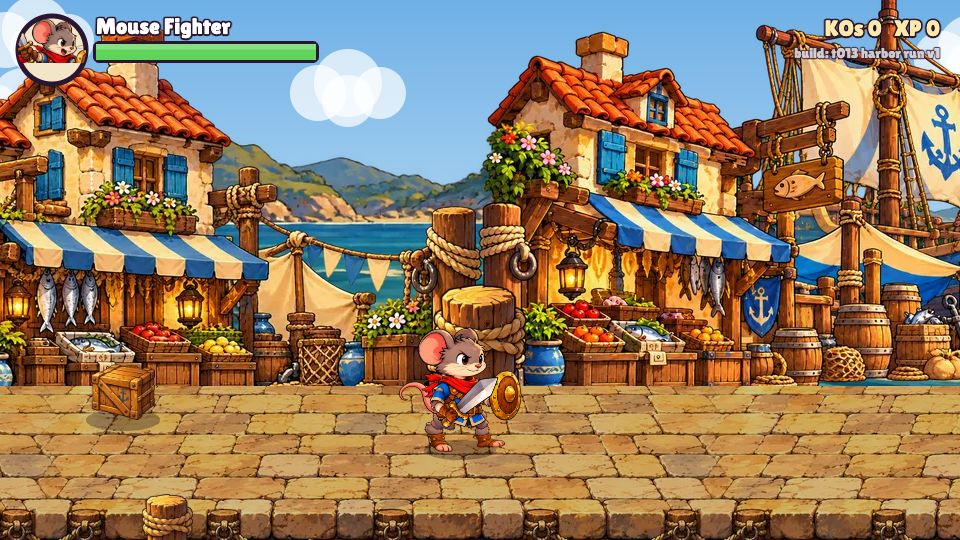
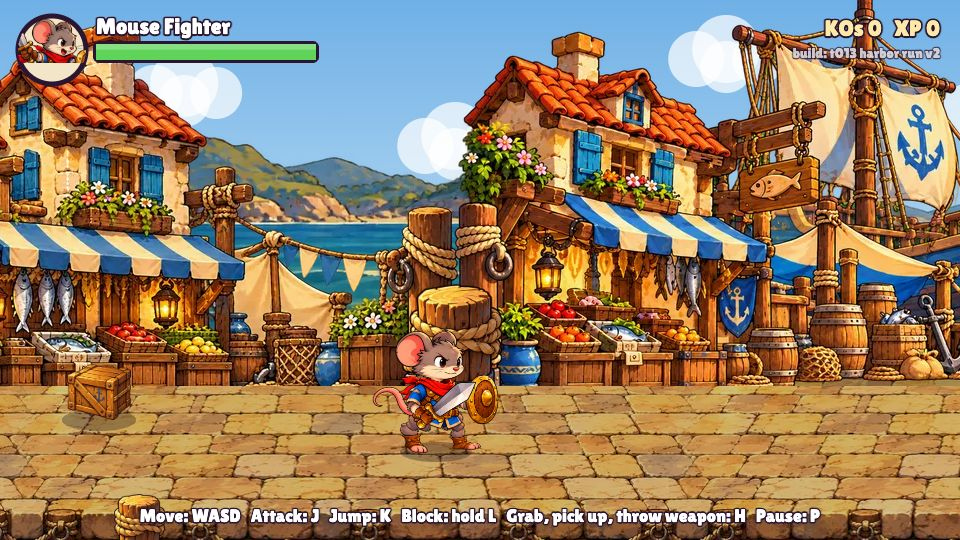
T013 round 3: stone backfill behind the back art (no sea strip along the lane), screens retaken

diff --git a/src/render/layers.js b/src/render/layers.js
@@ -1,4 +1,5 @@
-// Layered scrolling stage (T013): far (parallax), back segments end to end, floor tile (shaded), decor pieces.
+// Layered scrolling stage (T013): far (parallax), stone backfill under the back art, back segments end to end,
+// floor tile (shaded), decor pieces.
 // drawLayersBack before the fighters, drawLayersFront after them. camX = the camera's x (sim/camera.js), rounded.
 // segmentsOf / joinsOf are pure (data test, debug overlay).
 
@@ -25,12 +26,19 @@ export function drawLayersBack(ctx, stage, camX, assets, view) {
   const L = stage.layers;
   const far = assets.get(L.far.src);
   ctx.drawImage(far, Math.round(L.far.x - camX * L.far.parallax), L.far.y);
+  const fl = assets.get(L.floor.src), tw = fl.width, F = L.floor;
+  if (F.backfill) {   // stone behind the back art's uneven feet, so the far sea never shows between barrels and the lane
+    const y0 = L.back.base - F.backfill;
+    ctx.save(); ctx.beginPath(); ctx.rect(0, y0, view.w, F.backfill); ctx.clip();
+    for (let x = -(camX % tw); x < view.w; x += tw) ctx.drawImage(fl, x, y0, tw + 1, fl.height);
+    ctx.fillStyle = `rgba(0,0,0,${F.backfillShade})`; ctx.fillRect(0, y0, view.w, F.backfill);
+    ctx.restore();
+  }
   for (const s of segmentsOf(stage)) {
     if (s.x - camX > view.w || s.x + s.w - camX < 0) continue;
     const img = assets.get(s.src), h = img.height * s.w / img.width;
     ctx.drawImage(img, s.x - camX, L.back.base - h, s.w, h);
   }
-  const fl = assets.get(L.floor.src), tw = fl.width;
   for (let x = -(camX % tw); x < view.w; x += tw) ctx.drawImage(fl, x, L.floor.y, tw + 1, fl.height);   // 1 px overlap: no hairline
   if (L.floor.shade) { ctx.fillStyle = `rgba(0,0,0,${L.floor.shade})`; ctx.fillRect(0, L.floor.y, view.w, fl.height); }
   for (const d of L.decor) if (d.layer === 'back') drawPiece(ctx, L, d, d.x - camX, assets, 1);

diff --git a/src/data/lab-schema.js b/src/data/lab-schema.js
@@ -190,7 +190,7 @@ export const LAB_SCHEMA = [
   {
     title: 'Stage (Harbor Run, scrolling)', file: 'src/data/stages/harbor-run.js',
     fields: [
-      ['layers.floor.shade', 0, 0.6, 0.01], ['layers.far.parallax', 0, 1, 0.01], ['layers.frontParallax', 1, 1.5, 0.01],
+      ['layers.floor.shade', 0, 0.6, 0.01], ['layers.floor.backfill', 0, 120, 1], ['layers.floor.backfillShade', 0, 1, 0.01], ['layers.far.parallax', 0, 1, 0.01], ['layers.frontParallax', 1, 1.5, 0.01],
       ['layers.fade', 0, 1, 0.05], ['camera.follow', 200, 700, 5], ['camera.catchUp', 1, 20, 0.5], ['camera.edge', 0, 120, 1],
       ['floor.top', 300, 540, 1], ['floor.bottom', 300, 540, 1],
       { path: 'enemyCap', min: 1, max: 8, step: 1, file: 'src/data/rules.js' }, { path: 'zoneStagger', min: 1, max: 120, step: 1, file: 'src/data/rules.js' },

diff --git a/src/data/stages/harbor-run.js b/src/data/stages/harbor-run.js
@@ -24,7 +24,9 @@ export default {
       sequence: ['back-1', 'back-2', 'back-3', 'back-1'],
     },
     // floor: one tile (A007 floor, seam cross-faded by tools/tile_fade.py) repeated; top at `y`; shade = black overlay so fighters read
-    floor: { src: A + 'floor.webp', y: 386, shade: 0.18 },
+    // backfill = px of the same stone drawn behind the back art's base (darkened by backfillShade): fills the gaps between
+    // its uneven feet, which otherwise show the far sea as a blue strip along the lane
+    floor: { src: A + 'floor.webp', y: 386, shade: 0.18, backfill: 40, backfillShade: 0.35 },
     // decor pieces: art (anchorX = share of the width at the base point), drawn h px tall with the base at (x, y)
     pieces: {
       post: { src: A + 'front-post.webp', anchorX: 0.5 },

diff --git a/src/config.js b/src/config.js
@@ -3,4 +3,4 @@ export const VIEW = { w: 960, h: 540 };   // internal resolution; CSS scales to 
 export const FPS = 60;                    // sim runs at a fixed 60 steps/sec; all timings are in frames
 export const START_STAGE = 'harbor-run';   // ?stage=harbor-market in the URL loads the single-screen arena
 export const START_HERO = 'mouse-fighter';
-export const BUILD = 't013 harbor run v2';   // shown small under the KO counter so testers know which version is running
+export const BUILD = 't013 harbor run v3';   // shown small under the KO counter so testers know which version is running

diff --git a/docs/STATUS.md b/docs/STATUS.md
@@ -48,6 +48,7 @@
 - League of Legends-style hero kits (passive + three cooldown abilities + an ultimate, on top of the basic combo), like Dungeon Fighter Online. User is a big LoL fan. Idea only, for Stage 8 heroes; mind button count.
 
 ## Last session
+2026-10-15 code: T013 round 3: user confirmed no freeze, parallax good. Blue sea strip between the back art's uneven feet and the lane: stone backfill (40 px of the floor tile, darkened 0.35) drawn behind the back segments (`layers.floor.backfill`, lab sliders). Segment/join screens retaken.
 2026-10-15 code: T013 user check: lines and unlock shudder confirmed gone (round 2). Golden Axe feel / joins question still for the user.
 2026-10-15 code: T013 round 2 (user playtest): freeze before fight 3 = jump attack while holding a cutlass/club/fish threw every frame (T010 bug, also on the arena): startMove falls back to the fighter's own move. Black lines while hitting = fractional shake opening floor tile edges: whole-pixel shake on layered stages + 1 px tile overlap. Unlock shudder = camera snapped to the player: now glides at `camera.catchUp` 4 px/frame.
 2026-10-15 code: tests: props #11 (jump attack with every kit), harbor-run: camera never jumps more than catchUp, unlock glide, 20-seed rough-play (grab/jump/block/wander mash) never throws or stalls.

diff --git a/docs/MODULES.md b/docs/MODULES.md
@@ -55,7 +55,7 @@ One line per file: what it does and what it exports. **Read this instead of the 
 | `src/render/hud.js` | Portrait, health bars, held weapon + hits left, wave banner, KOs/XP, build label (`BUILD` in config.js), hints, game over (3 run-log lines), pause | `drawHud drawPaused` |
 | `src/render/debug.js` | Overlay: floor belt, prop footprints + hp, item pickup zones + state, arrows' hit lanes, hurtboxes, hitboxes, states (+ held weapon), AI tokens | `drawDebug` |
 | `src/render/backdrop.js` | Sky, clouds, sea; stage cutout | `drawBackdrop drawStage` |
-| `src/render/layers.js` | T013: scrolling stage layers (far parallax, back segments, shaded floor tile, decor back/front with fade) | `drawLayersBack drawLayersFront segmentsOf joinsOf` |
+| `src/render/layers.js` | T013: scrolling stage layers (far parallax, stone backfill behind the back art's base, back segments, shaded floor tile, decor back/front with fade) | `drawLayersBack drawLayersFront segmentsOf joinsOf` |
 | `src/render/tint.js` | Cached solid-colour silhouettes | `silhouette` |
 
 ## Log (run summaries; never changes gameplay state)
